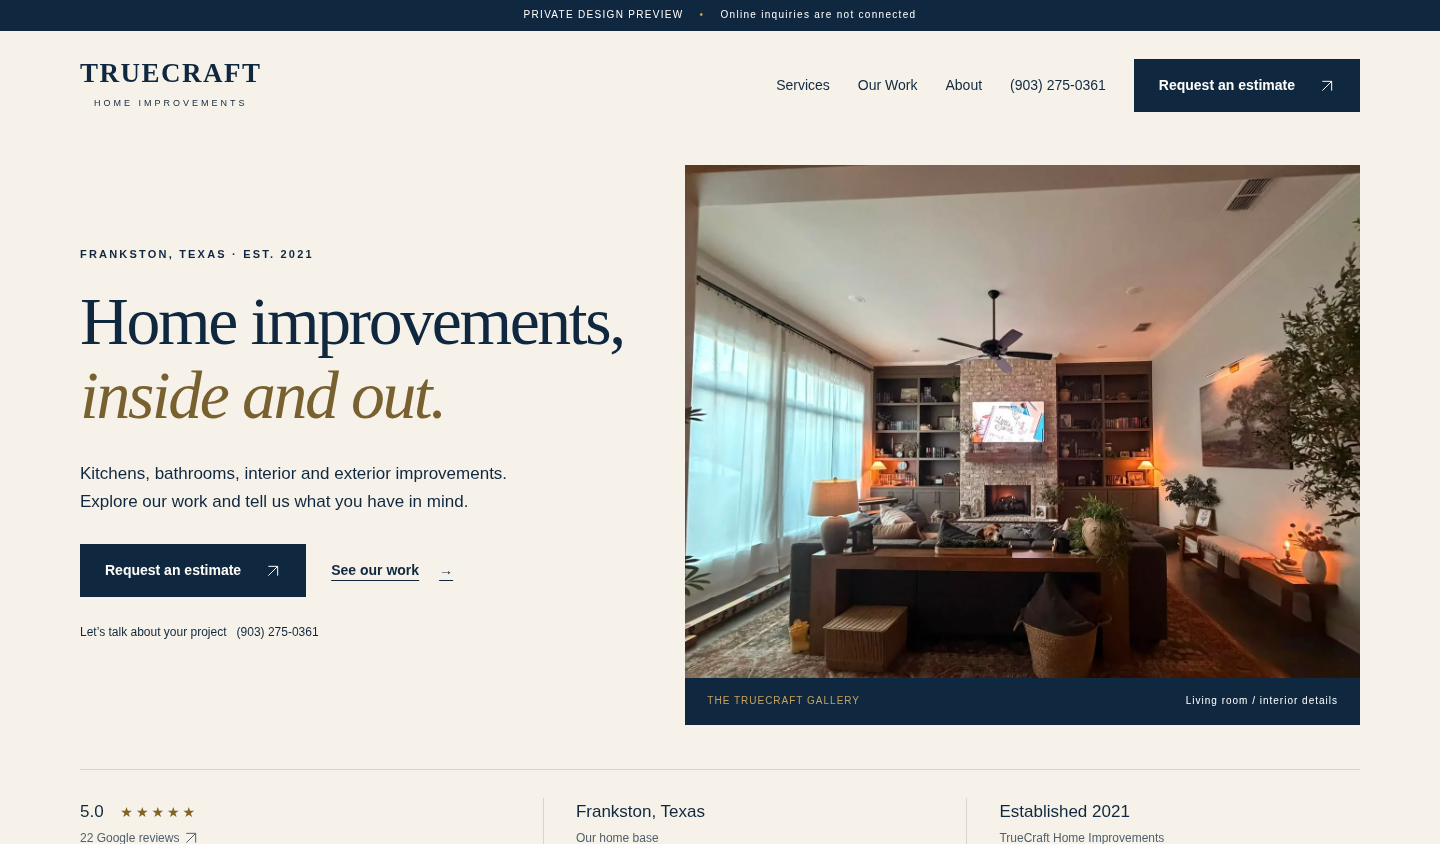
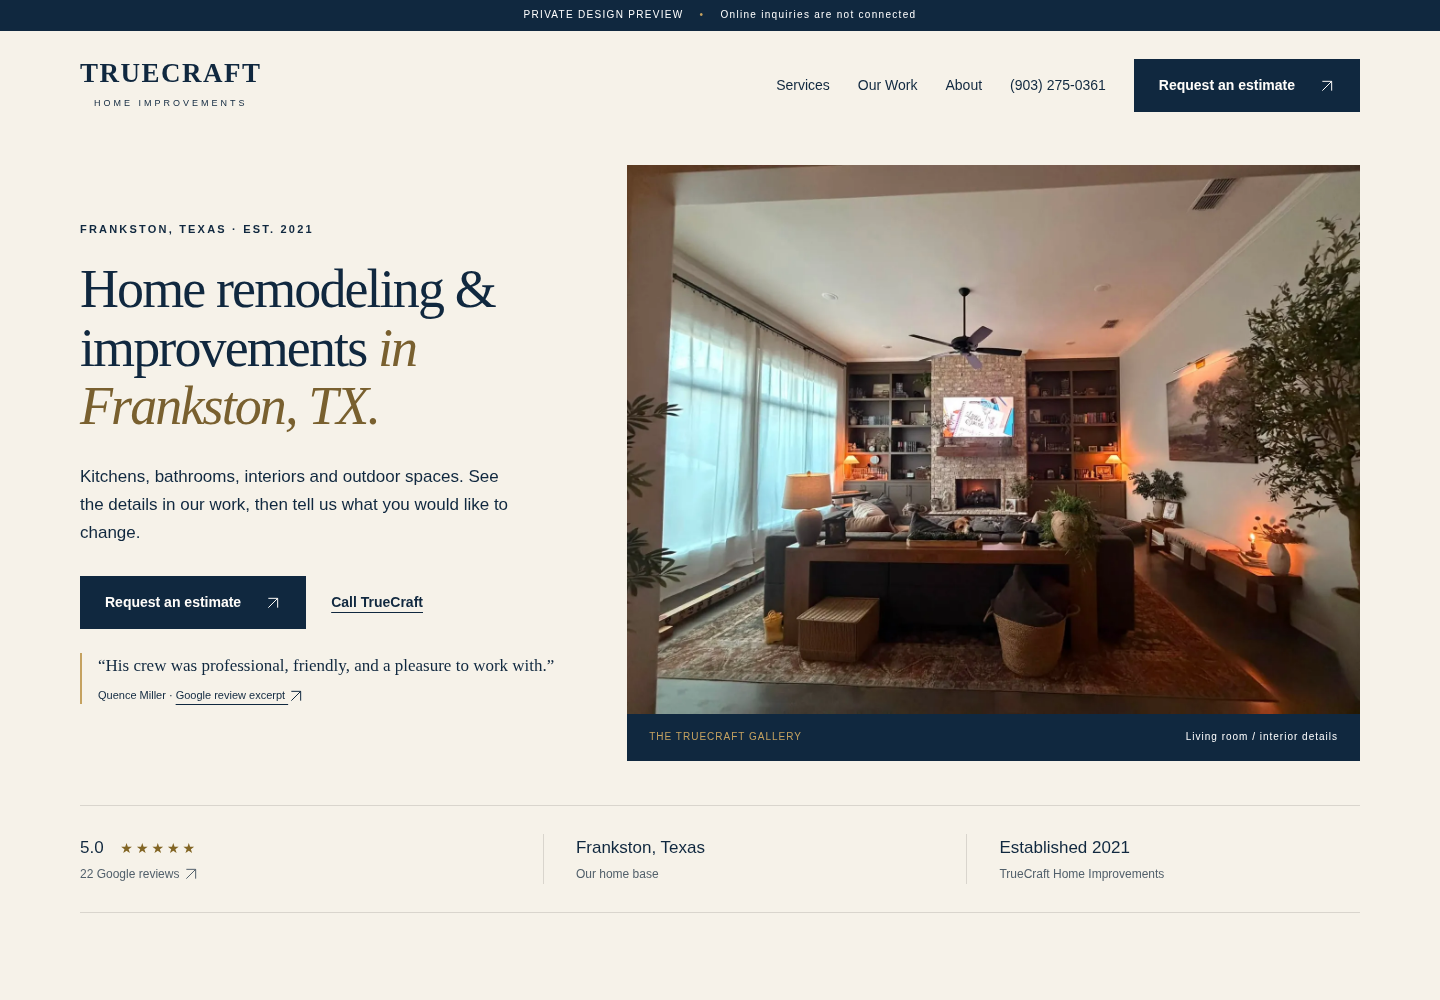
Refine TrueCraft hero, featured photography and service selection

diff --git a/public/styles.css b/public/styles.css
@@ -192,14 +192,18 @@ button:disabled {
 }
 .hero {
   display: grid;
-  grid-template-columns: 0.95fr 1.15fr;
-  min-height: 590px;
+  grid-template-columns: 0.9fr 1.3fr;
+  min-height: 0;
   padding-block: 24px 44px;
-  gap: 48px;
+  gap: 40px;
   align-items: center;
 }
 .hero-copy {
   padding-block: 25px;
+}
+.hero h1 {
+  font-size: clamp(38px, 3.8vw, 54px);
+  line-height: 1.08;
 }
 .hero h1 em {
   font-style: italic;
@@ -223,17 +227,30 @@ button:disabled {
   text-decoration: none;
 }
 .hero-image {
-  height: 560px;
+  height: auto;
   position: relative;
 }
 .hero-image img {
-  object-position: 49% center;
+  height: auto;
+  aspect-ratio: 4 / 3;
+}
+.hero-review {
+  margin-top: 24px;
+  border-left: 2px solid var(--gold);
+  padding-left: 16px;
+}
+.hero-review blockquote {
+  font:
+    17px/1.5 Georgia,
+    serif;
+  margin: 0 0 8px;
+}
+.hero-review figcaption {
+  font-size: 11px;
+  line-height: 1.6;
 }
 .image-label {
-  position: absolute;
-  bottom: 0;
-  left: 0;
-  right: 0;
+  position: relative;
   background: var(--navy);
   color: white;
   padding: 15px 22px;
@@ -314,13 +331,15 @@ button:disabled {
 .photo-link {
   display: block;
   position: relative;
-  height: 410px;
+  height: auto;
+  aspect-ratio: 1;
   overflow: hidden;
   background: #e1ded6;
 }
 .gallery figure:nth-child(4n + 2) .photo-link,
 .gallery figure:nth-child(4n + 3) .photo-link {
-  height: 410px;
+  height: auto;
+  aspect-ratio: 1;
 }
 .photo-link img {
   transition: transform 0.3s;
@@ -336,54 +355,69 @@ button:disabled {
   padding: 6px 16px;
   font-size: 22px;
 }
-.gallery figcaption {
+.gallery .caption-heading {
   display: flex;
   align-items: center;
   justify-content: space-between;
   padding: 15px 0;
   gap: 12px;
 }
-.gallery figcaption > span {
+.gallery .caption-heading > span {
   font-size: 11px;
   text-transform: uppercase;
   letter-spacing: 1px;
   color: var(--muted);
+}
+.gallery figcaption p {
+  font-size: 14px;
+  color: var(--muted);
+  margin: 0;
+  max-width: 440px;
+}
+.gallery img[src*="bathroom"] {
+  object-position: 50% 72%;
+}
+.gallery img[src*="front-porch"] {
+  object-position: 50% 46%;
 }
 .services-home {
   background: #eae5da;
 }
 .service-grid {
   display: grid;
-  grid-template-columns: repeat(4, 1fr);
-  border-top: 1px solid #c4beb2;
+  grid-template-columns: repeat(3, minmax(0, 1fr));
+  gap: 24px;
 }
 .service-card {
   text-decoration: none;
-  border-right: 1px solid #c4beb2;
-  padding: 30px 24px 0;
-  position: relative;
+  background: var(--cream);
 }
-.service-card:first-child {
-  padding-left: 0;
+.service-card-photo {
+  aspect-ratio: 1;
 }
-.service-card:last-child {
-  border-right: 0;
-}
-.service-number {
-  color: #79602f;
-  font-size: 12px;
+.service-card-copy {
+  padding: 24px;
 }
 .service-card h3 {
-  margin: 26px 0 16px;
-  max-width: 170px;
+  margin-bottom: 16px;
 }
 .service-card p {
-  font-size: 14px;
+  font-size: 15px;
   color: #46535d;
 }
-.service-arrow {
-  display: block;
-  font-size: 28px;
+.service-action {
+  display: flex;
+  align-items: center;
+  justify-content: space-between;
+  gap: 12px;
+  font-size: 14px;
+  font-weight: 600;
+}
+.other-project {
+  padding-bottom: 70px;
+}
+.other-project p {
+  margin-top: 20px;
 }
 .reviews {
   display: grid;
@@ -743,7 +777,7 @@ footer {
     gap: 64px;
   }
   .hero-image {
-    height: 600px;
+    height: auto;
   }
 }
 @media (max-width: 1150px) {
@@ -760,10 +794,10 @@ footer {
     gap: 30px;
   }
   .hero-image {
-    height: 500px;
+    height: auto;
   }
   .hero h1 {
-    font-size: 54px;
+    font-size: 44px;
   }
   .hero .actions {
     gap: 12px;
@@ -838,16 +872,33 @@ footer {
     padding-bottom: 30px;
   }
   .hero-copy {
-    padding-block: 25px 0;
+    display: contents;
   }
+  .hero {
+    gap: 16px;
+  }
+  .hero > .hero-image {
+    order: 1;
+  }
+  .hero-review {
+    order: 2;
+    margin-top: 0;
+  }
+  .hero-copy > .eyebrow {
+    margin: 12px 0 0;
+  }
+  .hero-copy > p:not(.eyebrow) {
+    margin: 0;
+  }
+
   .hero h1 {
-    font-size: clamp(43px, 7vw, 60px);
+    font-size: clamp(36px, 6vw, 48px);
   }
   .hero .eyebrow {
     margin-bottom: 18px;
   }
   .hero-copy > p:not(.eyebrow) {
-    margin: 22px 0;
+    margin: 0;
     max-width: 540px;
     font-size: 16px;
   }
@@ -856,7 +907,7 @@ footer {
     margin-top: 22px;
   }
   .hero-image {
-    height: 390px;
+    height: auto;
   }
   .image-label {
     display: flex;
@@ -897,7 +948,7 @@ footer {
   .photo-link,
   .gallery figure:nth-child(4n + 2) .photo-link,
   .gallery figure:nth-child(4n + 3) .photo-link {
-    height: 320px;
+    height: auto;
   }
   .gallery figcaption {
     display: block;
@@ -906,21 +957,15 @@ footer {
     font-size: 18px;
   }
   .service-grid {
-    grid-template-columns: 1fr 1fr;
+    grid-template-columns: 1fr;
   }
   .service-card {
-    padding: 25px 18px 20px;
-    border-bottom: 1px solid #c4beb2;
+    display: grid;
+    grid-template-columns: 1fr 1fr;
+    align-items: center;
   }
-  .service-card:nth-child(2) {
-    border-right: 0;
-  }
-  .service-card:nth-child(3) {
-    padding-left: 0;
-  }
-  .service-card h3 {
-    margin-top: 15px;
-    max-width: none;
+  .service-card-copy {
+    padding: 24px;
   }
   .reviews {
     grid-template-columns: 1fr;
@@ -1030,7 +1075,7 @@ footer {
     padding-inline: 5px;
   }
   .hero-image {
-    height: 310px;
+    height: auto;
   }
   .image-label {
     font-size: 8px;
@@ -1052,16 +1097,19 @@ footer {
   .photo-link,
   .gallery figure:nth-child(4n + 2) .photo-link,
   .gallery figure:nth-child(4n + 3) .photo-link {
-    height: 380px;
+    height: auto;
   }
-  .gallery figcaption {
+  .gallery .caption-heading {
     display: flex;
   }
+  .service-card {
+    display: block;
+  }
   .service-card h3 {
-    font-size: 18px;
+    font-size: 22px;
   }
   .service-card p {
-    font-size: 13px;
+    font-size: 15px;
   }
   .quote-grid {
     grid-template-columns: 1fr;

diff --git a/docs/REFINEMENT-REVIEW.md b/docs/REFINEMENT-REVIEW.md
@@ -1,0 +1,20 @@
+# Focused refinement — October 16, 2026
+
+The existing six-page layout is retained. Home now leads with remodeling/improvements and Frankston; the landscape hero preserves its complete 4:3 image. Its primary estimate and secondary call actions remain visible at phone widths. The Google excerpt stays attributed and linked, beside the invitation on desktop and immediately after the photo on mobile.
+
+Featured photographs are bathroom (15), interior detail (1), porch (19), and garage (11). The living-room hero (4) is not repeated in this selection. Square gallery frames have reviewed crops and full-image links. Captions describe visible subjects only, not installation scope, homeowner goals, location or chronology. Services present three photo-led groups; all link to a preselected estimate. Other projects remains an estimate option and a separate service-page invitation.
+
+The unconfirmed process sequence was replaced with useful preparation guidance: space/goals, town or ZIP, and ideas/timing. No Bo biography or unconfirmed project story has been added. Owner reiterated that only existing verified facts and neutral captions should appear.
+
+## Validation
+
+- Build and syntax checks pass; 18 unit/integration tests pass, including mocked Resend failure and idempotency behavior.
+- Seven browser suites pass on all six routes at 360, 390, 768, 1024 and 1440 CSS pixels, plus landscape/enlarged text/JavaScript-disabled checks. Images, internal links, noindex, overflow, keyboard menu, gallery filters, form errors and zero inquiry POSTs checked. Automated axe scans found no violations.
+- Additional rendered checks verify all three homepage service cards preselect the correct estimate option at 390 and 1440.
+- Updated screenshots in docs/qa: Home, Our Work, Estimate and Services at desktop/mobile widths; home-first-screen captures reviewed at full viewport size. These are local Chromium renders; they do not establish live-host browser performance or inbox receipt.
+
+## Remaining gates
+
+Form and sending remain disabled. Existing Resend adapter is disconnected and mocked only. Confirm recipient, verified sender, storage/outbox/worker architecture and authorized credential setup; implement durable acceptance with atomic deduplication, retries and failure alerts; verify actual inbox receipt and failure recovery before enabling. See RESEND-INTEGRATION.md for the full implementation contract.
+
+Bo-approved introduction, process, project details, service coverage, photo publication permissions and final contact/business details remain pending. No unconfirmed copy is included in the preview. No main merge or production promotion is authorized. Preview must remain authentication-protected and noindex.
